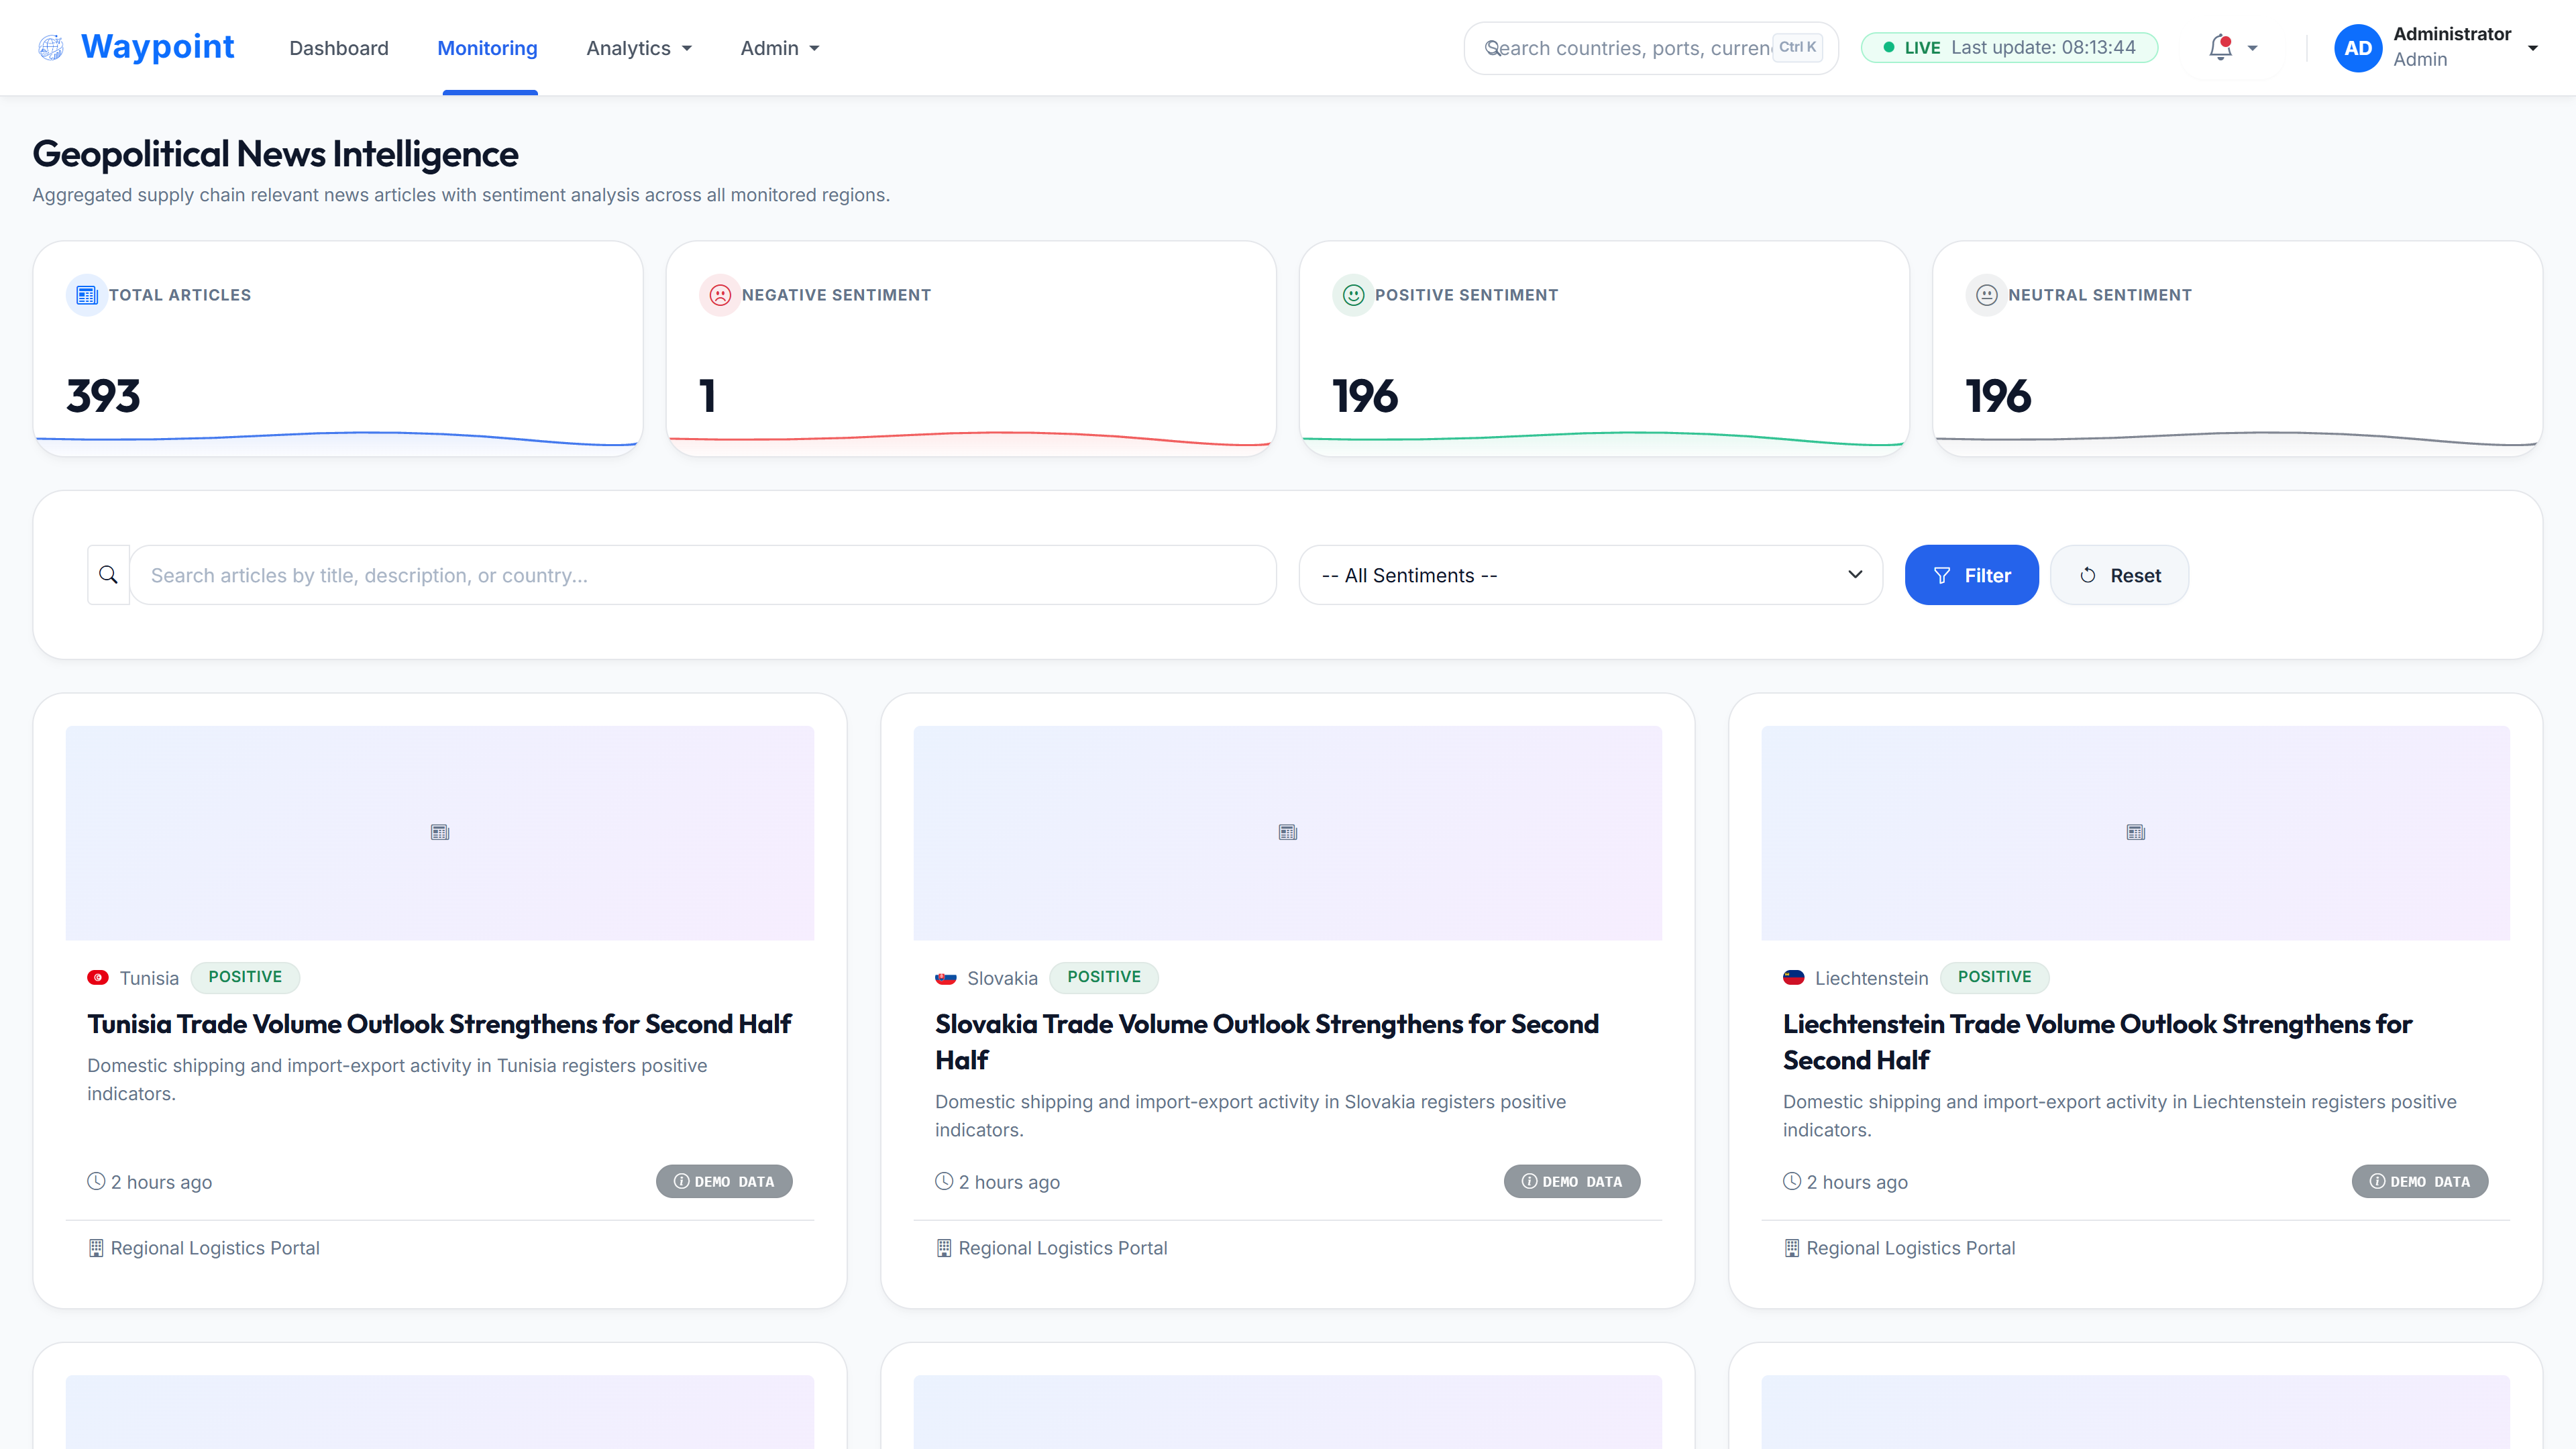
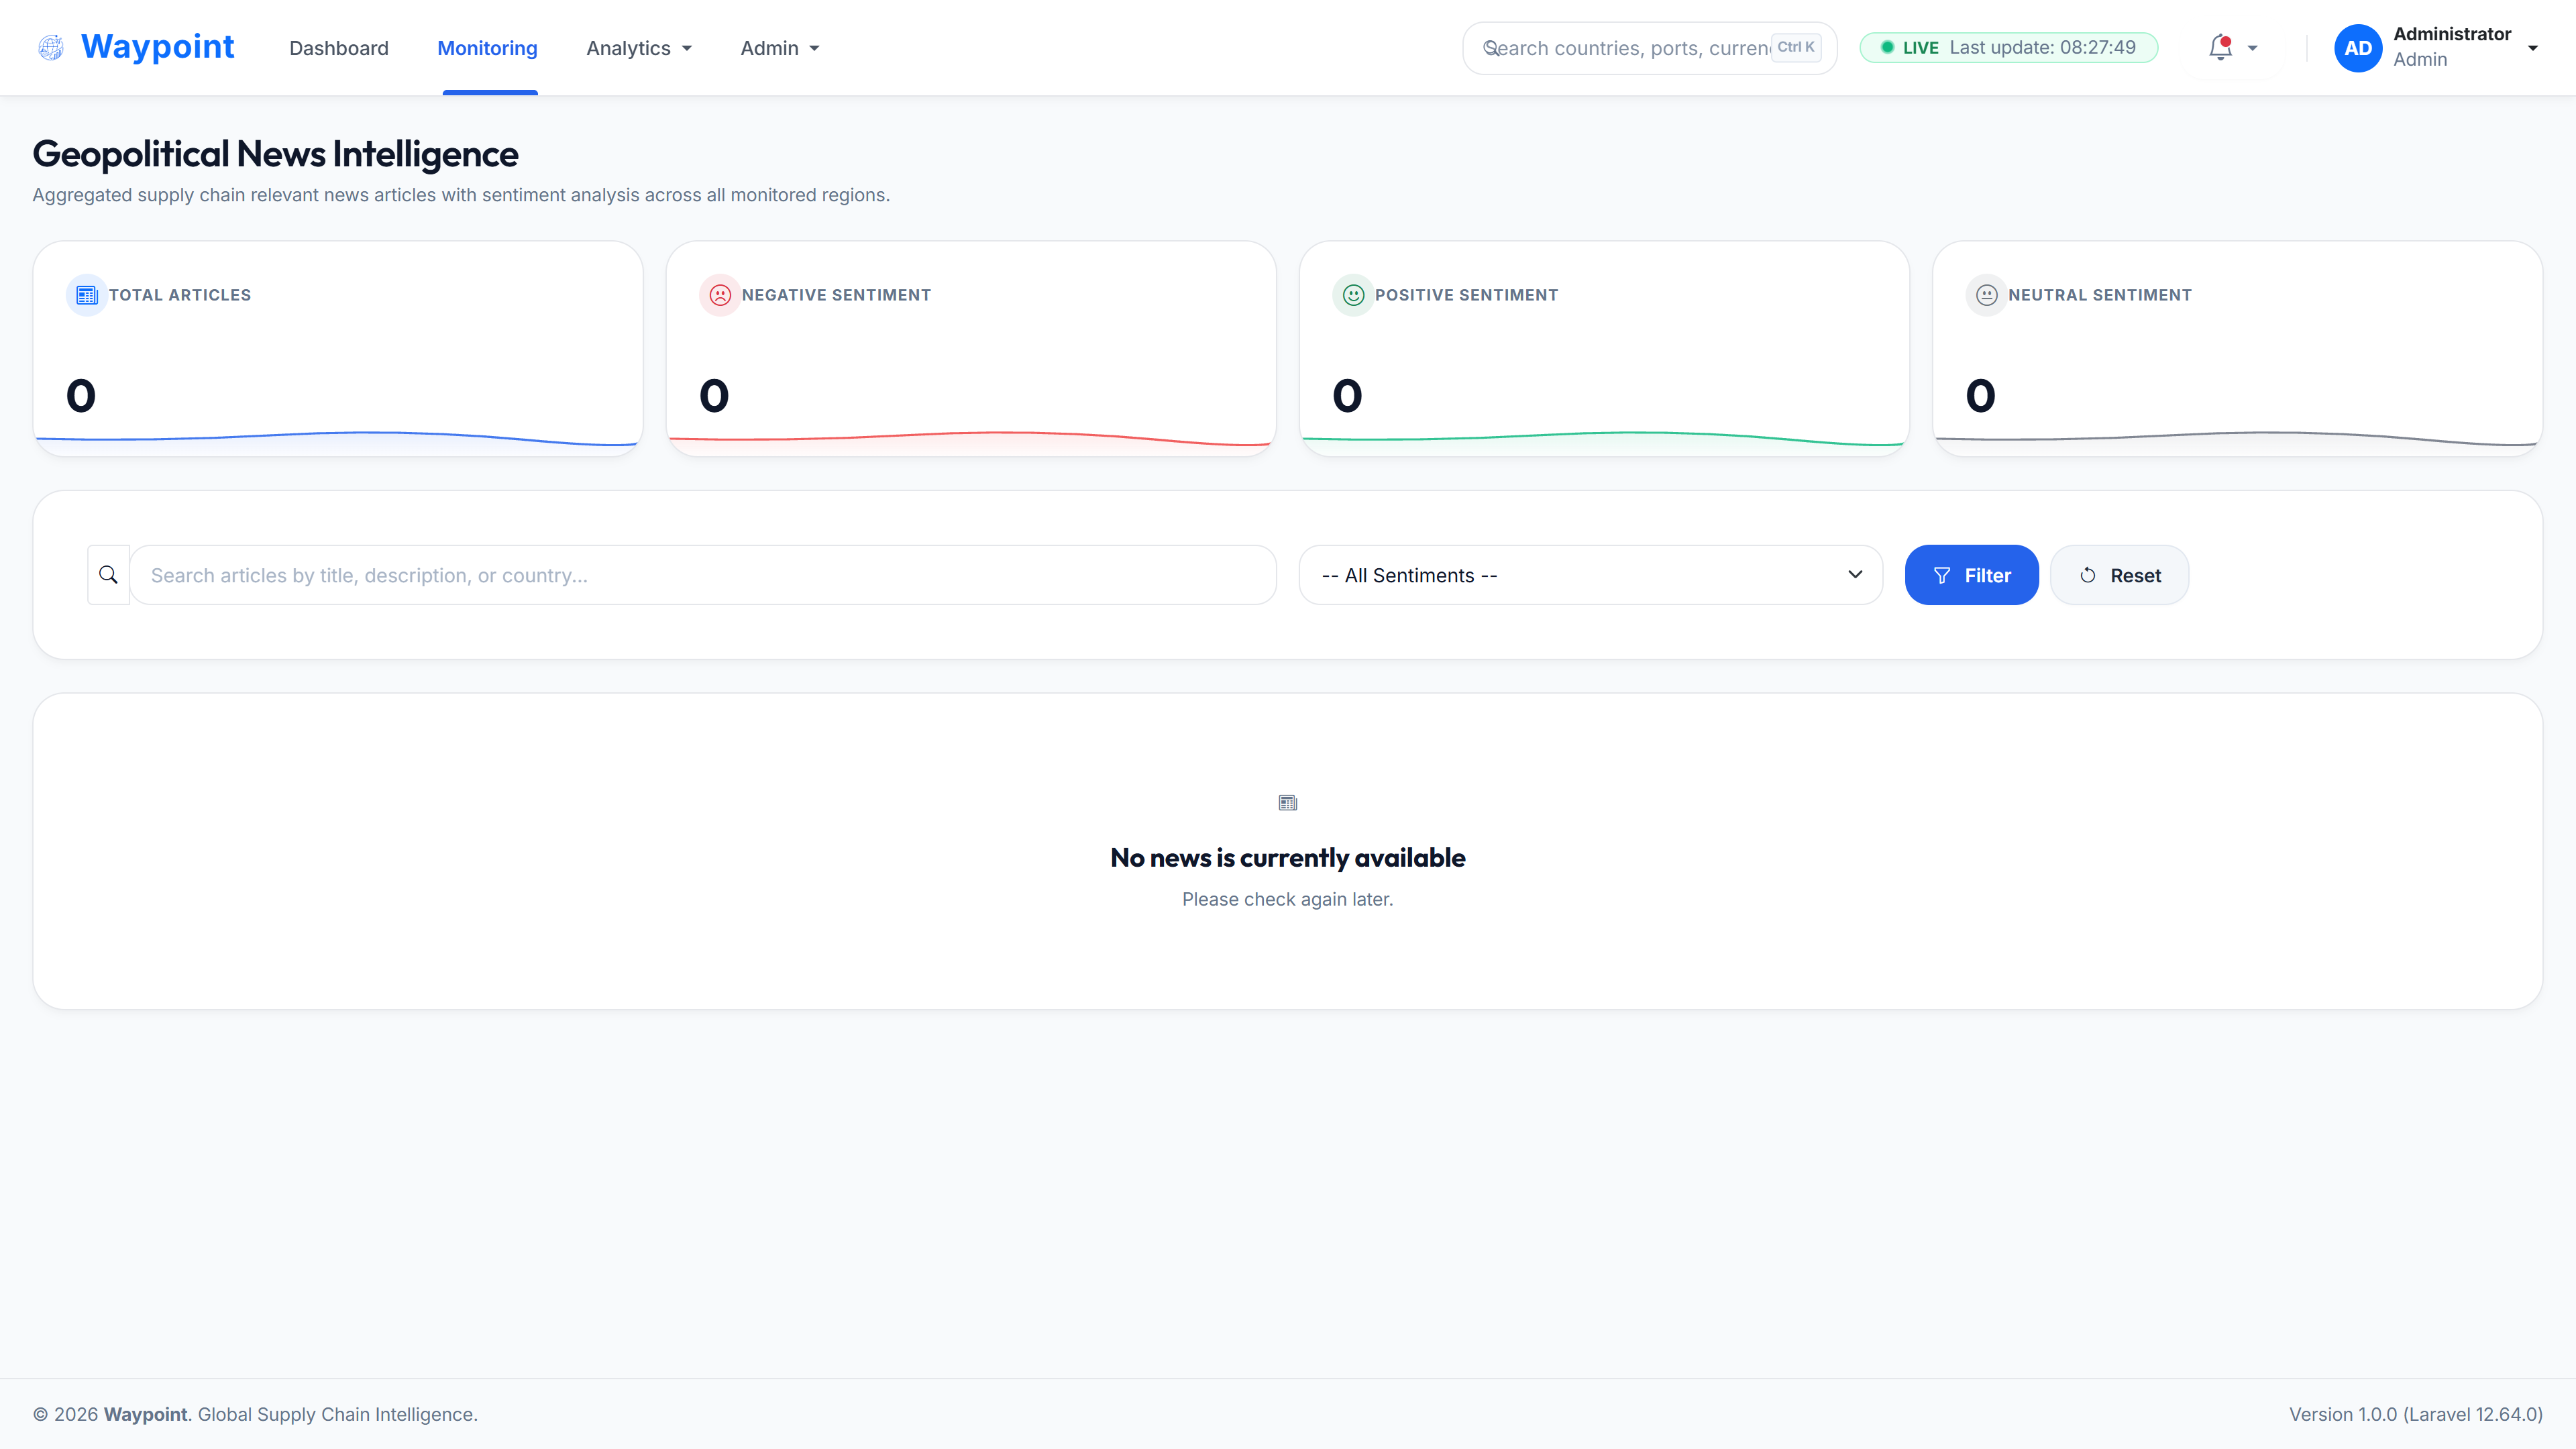
fix(news): auto-trigger GNews live sync when news_articles database is empty

diff --git a/scratch/trigger_railway_news_sync.js b/scratch/trigger_railway_news_sync.js
@@ -1,0 +1,52 @@
+import puppeteer from 'puppeteer';
+
+async function triggerRailwayNewsSync() {
+    console.log('Connecting to Railway Admin Panel to trigger GNews News Sync...');
+    const railwayUrl = 'https://global-supply-production.up.railway.app';
+
+    const browser = await puppeteer.launch({
+        headless: 'new',
+        args: ['--no-sandbox', '--disable-setuid-sandbox']
+    });
+
+    const page = await browser.newPage();
+    await page.setViewport({ width: 1920, height: 1080 });
+
+    // Login as Admin
+    await page.goto(`${railwayUrl}/login`, { waitUntil: 'networkidle2' });
+    const emailInput = await page.$('#email');
+    if (emailInput) {
+        await page.type('#email', '[email redacted]');
+        await page.type('#password', 'password');
+        await Promise.all([
+            page.click('button[type="submit"]'),
+            page.waitForNavigation({ waitUntil: 'networkidle2' }).catch(() => {})
+        ]);
+    }
+
+    // Go to Admin Sync Manager
+    console.log('Navigating to /admin/sync...');
+    await page.goto(`${railwayUrl}/admin/sync`, { waitUntil: 'networkidle2' });
+
+    // Find and click "Sync GNews Articles" or "Sync News"
+    const syncButtons = await page.$$('button');
+    let clicked = false;
+    for (const btn of syncButtons) {
+        const text = await page.evaluate(el => el.innerText, btn);
+        if (text.toLowerCase().includes('news')) {
+            console.log(`Clicking button: "${text.trim()}"...`);
+            await btn.click();
+            clicked = true;
+            await new Promise(r => setTimeout(r, 8000));
+            break;
+        }
+    }
+
+    await browser.close();
+    console.log('Railway News Sync Trigger Completed!');
+}
+
+triggerRailwayNewsSync().catch(err => {
+    console.error('Error:', err.message);
+    process.exit(1);
+});

diff --git a/scratch/step3_call_gnews_api.php b/scratch/step3_call_gnews_api.php
@@ -1,0 +1,69 @@
+<?php
+
+require __DIR__ . '/../vendor/autoload.php';
+$app = require_once __DIR__ . '/../bootstrap/app.php';
+$kernel = $app->make(Illuminate\Contracts\Console\Kernel::class);
+$kernel->bootstrap();
+
+use App\Services\External\GNewsService;
+use App\Models\NewsArticle;
+
+$service = app(GNewsService::class);
+$apiKey = config('gscrip.api.gnews.key');
+
+echo "1. Checking GNews API Key Configuration...\n";
+echo "GNews API Key Configured: " . ($service->hasApiKey() ? "YES (" . substr($apiKey, 0, 5) . "...)" : "NO") . "\n\n";
+
+echo "2. Making HTTP Request to GNews API endpoint...\n";
+
+try {
+    $response = \Illuminate\Support\Facades\Http::timeout(15)
+        ->get('https://gnews.io/api/v4/top-headlines', [
+            'category' => 'business',
+            'lang' => 'en',
+            'country' => 'us',
+            'max' => 10,
+            'apikey' => $apiKey,
+        ]);
+
+    echo "HTTP Status Code: " . $response->status() . "\n";
+    
+    $json = $response->json();
+    $totalArticles = isset($json['articles']) ? count($json['articles']) : 0;
+    
+    echo "Total Articles Returned from GNews API: {$totalArticles}\n";
+    echo "Raw Response Snippet:\n";
+    echo substr(json_encode($json, JSON_PRETTY_PRINT), 0, 800) . "\n\n";
+
+    echo "3. Testing DB Insertion of returned articles...\n";
+    $insertedCount = 0;
+    if (!empty($json['articles'])) {
+        foreach ($json['articles'] as $art) {
+            try {
+                $saved = NewsArticle::updateOrCreate(
+                    ['source_url' => $art['url']],
+                    [
+                        'title' => $art['title'] ?? 'Untitled',
+                        'description' => $art['description'] ?? '',
+                        'content' => $art['content'] ?? '',
+                        'source_name' => $art['source']['name'] ?? 'GNews',
+                        'source_url' => $art['url'],
+                        'image_url' => $art['image'] ?? null,
+                        'category' => 'economic',
+                        'sentiment' => 'neutral',
+                        'published_at' => isset($art['publishedAt']) ? \Carbon\Carbon::parse($art['publishedAt']) : now(),
+                        'fetched_at' => now(),
+                    ]
+                );
+                $insertedCount++;
+                echo " Successfully inserted: [ID #{$saved->id}] " . mb_substr($saved->title, 0, 50) . "...\n";
+            } catch (\Throwable $e) {
+                echo " Exception during insertion: " . $e->getMessage() . "\n";
+            }
+        }
+    }
+    echo "\nTotal Articles Successfully Inserted/Updated in DB: {$insertedCount}\n";
+
+} catch (\Throwable $e) {
+    echo "HTTP Request Exception: " . $e->getMessage() . "\n";
+}

diff --git a/app/Http/Controllers/User/NewsController.php b/app/Http/Controllers/User/NewsController.php
@@ -13,6 +13,23 @@ class NewsController extends Controller
      */
     public function index(Request $request)
     {
+        $realQuery = NewsArticle::whereNotNull('source_url')
+            ->where('source_url', '!=', '')
+            ->where('source_url', 'not like', '%example.com%');
+
+        // Auto-sync live GNews API if database has zero live articles
+        if ($realQuery->count() === 0) {
+            try {
+                $gnewsService = app(\App\Services\External\GNewsService::class);
+                if ($gnewsService->hasApiKey()) {
+                    $gnewsService->syncAllNews();
+                }
+            } catch (\Throwable $e) {
+                // Log warning and proceed to render view
+                \Illuminate\Support\Facades\Log::warning("Auto-sync GNews on empty DB failed: " . $e->getMessage());
+            }
+        }
+
         $query = NewsArticle::with('country')
             ->whereNotNull('source_url')
             ->where('source_url', '!=', '')

diff --git a/scratch/step1_count_db.php b/scratch/step1_count_db.php
@@ -1,0 +1,11 @@
+<?php
+
+require __DIR__ . '/../vendor/autoload.php';
+$app = require_once __DIR__ . '/../bootstrap/app.php';
+$kernel = $app->make(Illuminate\Contracts\Console\Kernel::class);
+$kernel->bootstrap();
+
+use App\Models\NewsArticle;
+
+$count = NewsArticle::count();
+echo "SELECT COUNT(*) FROM news_articles: {$count}\n";